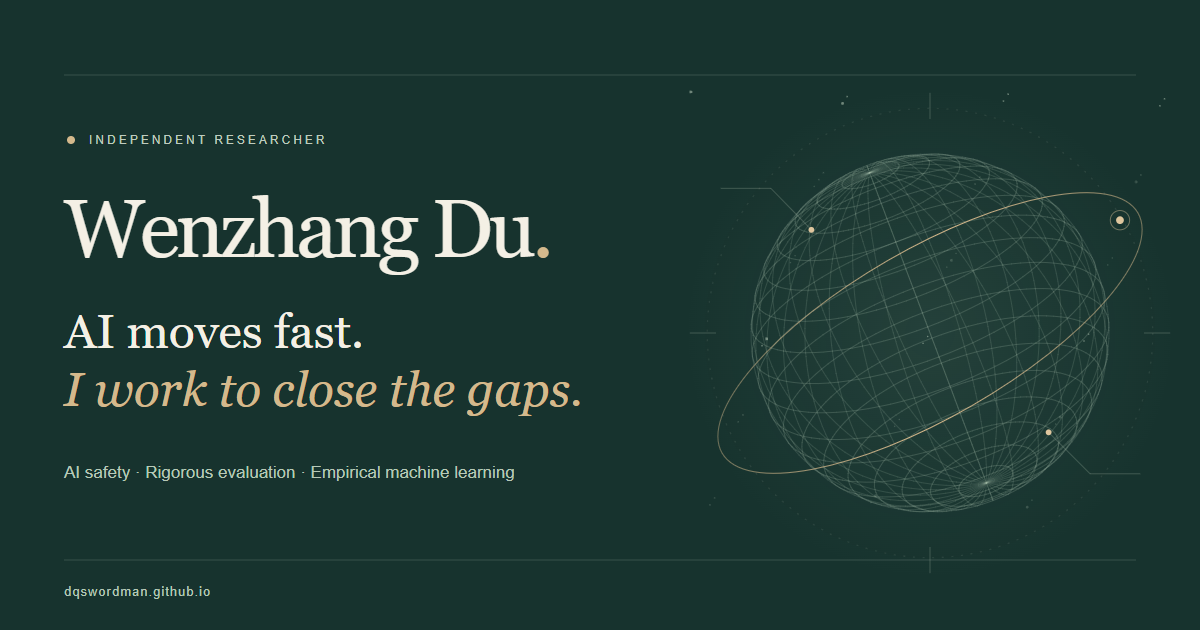
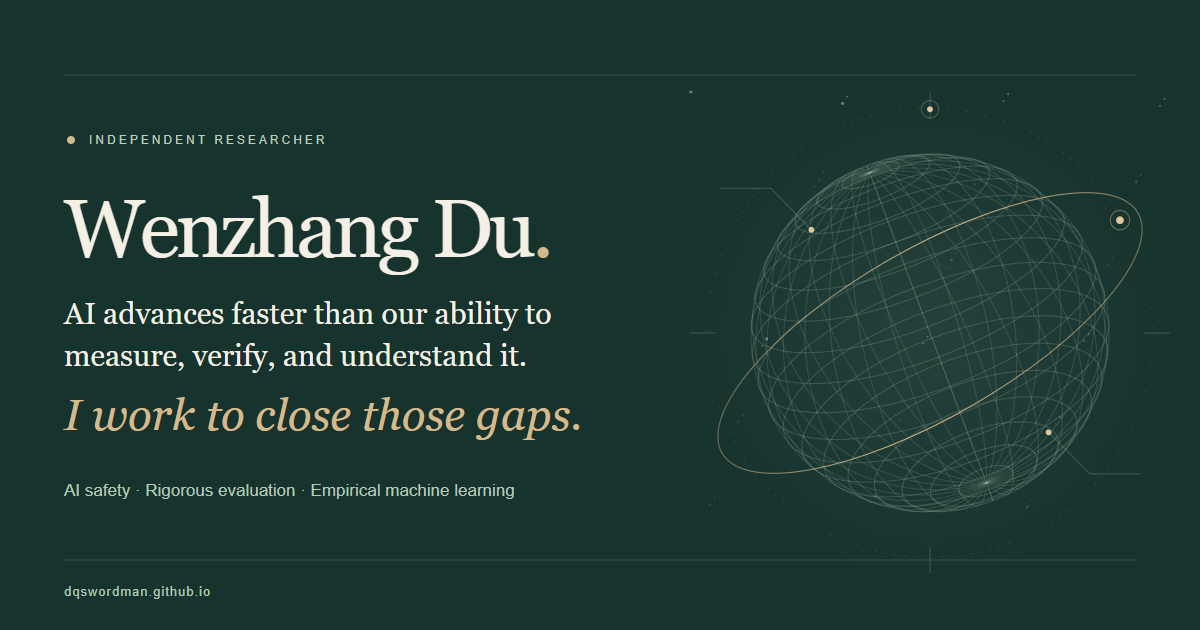
Refine homepage research statement and sharing card

Changed region(s): [[0.0308, 0.4825, 0.4933, 0.6937], [0.0308, 0.7238, 0.4317, 0.7841]]

diff --git a/src/styles.css b/src/styles.css
@@ -365,7 +365,16 @@ svg {
   line-height: 1.2;
   margin-top: 24px;
 }
+.hero-premise {
+  display: block;
+  max-width: 540px;
+  margin-bottom: 14px;
+  font-size: clamp(24px, 2.3vw, 33px);
+  line-height: 1.4;
+  letter-spacing: -0.02em;
+}
 .hero-statement em {
+  display: block;
   color: var(--gold);
   font-weight: 400;
 }
@@ -2435,8 +2444,10 @@ html[lang='zh-CN'] .research-card h3 {
     font-size: 18pt;
     margin-top: 10px;
   }
-  .hero-statement br {
-    display: none;
+  .hero-premise {
+    max-width: none;
+    margin-bottom: 6pt;
+    font-size: 12pt;
   }
   .hero-intro {
     color: #444;
